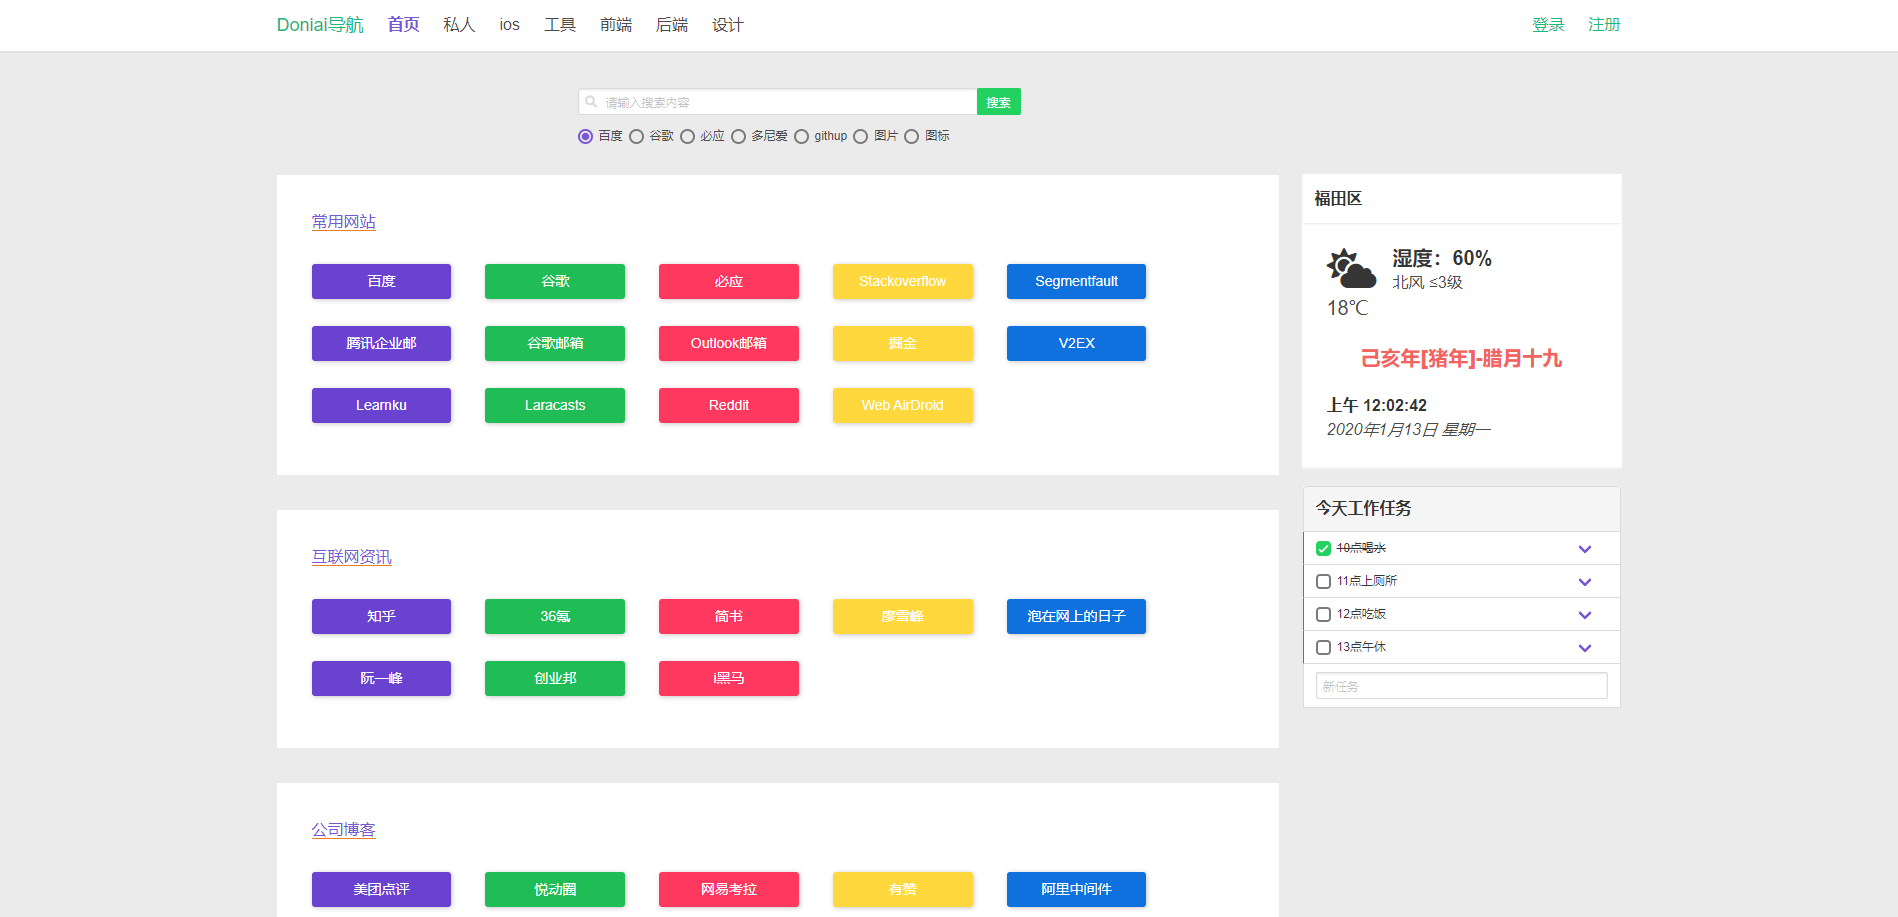
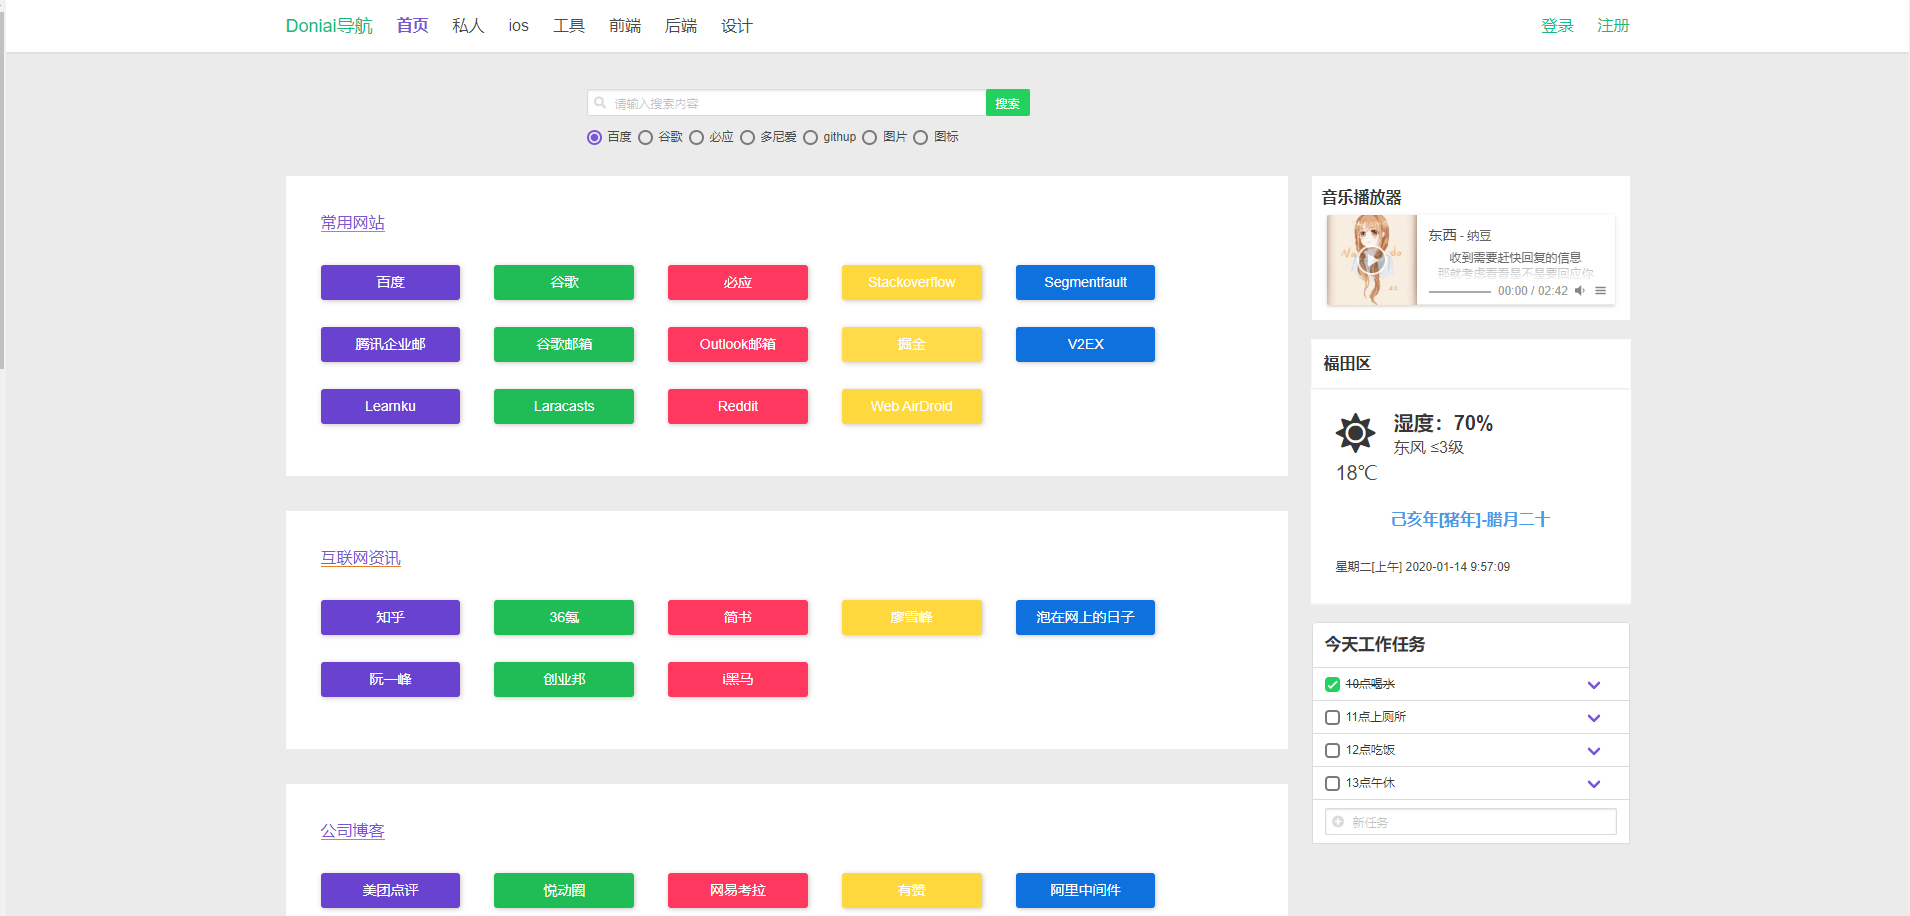
优化音乐播放器

diff --git a/src/components/Music.vue b/src/components/Music.vue
@@ -4,7 +4,7 @@
       <h3>音乐播放器</h3>
     </div>
     <div class="music-player">
-      <aplayer :audio="audio" :lrcType="3" />
+      <aplayer :audio="audio" :lrcType="3" :listFolded="is_hide_list" />
     </div>
   </div>
 </template>
@@ -20,14 +20,33 @@ export default {
   name: 'Music',
   data() {
     return {
-      audio: {
-        name: '东西（Cover：林俊呈）',
-        artist: '纳豆',
-        url: 'https://cdn.moefe.org/music/mp3/thing.mp3',
-        cover:
-          'https://p1.music.126.net/5zs7IvmLv7KahY3BFzUmrg==/109951163635241613.jpg?param=300y300',
-        lrc: 'https://cdn.moefe.org/music/lrc/thing.lrc'
-      }
+      is_hide_list: true,
+      audio: [
+        {
+          name: '东西',
+          artist: '纳豆',
+          url: 'https://cdn.moefe.org/music/mp3/thing.mp3',
+          cover:
+            'https://p1.music.126.net/5zs7IvmLv7KahY3BFzUmrg==/109951163635241613.jpg?param=300y300',
+          lrc: 'https://cdn.moefe.org/music/lrc/thing.lrc'
+        },
+        {
+          name: '响喜乱舞',
+          artist: '泠鸢yousa',
+          url: 'https://cdn.moefe.org/music/mp3/kyoukiranbu.mp3',
+          cover:
+            'https://p1.music.126.net/AUGVPQ_rVrngDH9ocQrn3Q==/109951163613037822.jpg?param=300y300',
+          lrc: 'https://cdn.moefe.org/music/lrc/kyoukiranbu.lrc'
+        },
+        {
+          name: '啵唧',
+          artist: 'Hanser',
+          url: 'https://cdn.moefe.org/music/mp3/kiss.mp3',
+          cover:
+            'https://p1.music.126.net/K0-IPcIQ9QFvA0jXTBqoWQ==/109951163636756693.jpg?param=300y300',
+          lrc: 'https://cdn.moefe.org/music/lrc/kiss.lrc'
+        }
+      ]
     }
   },
   methods: {}

diff --git a/README.md b/README.md
@@ -43,10 +43,11 @@ $ yarn build
 
 ![effect](/example/images/1.png)
 
-## 所用技术
+## 所用依赖，感谢这些好用的扩展包
 
 - [高德地图 api](https://lbs.amap.com/)
 - [VueJs](https://lbs.amap.com/)
+- [Aplayer](https://aplayer.moefe.org/)
 
 ## License
 
